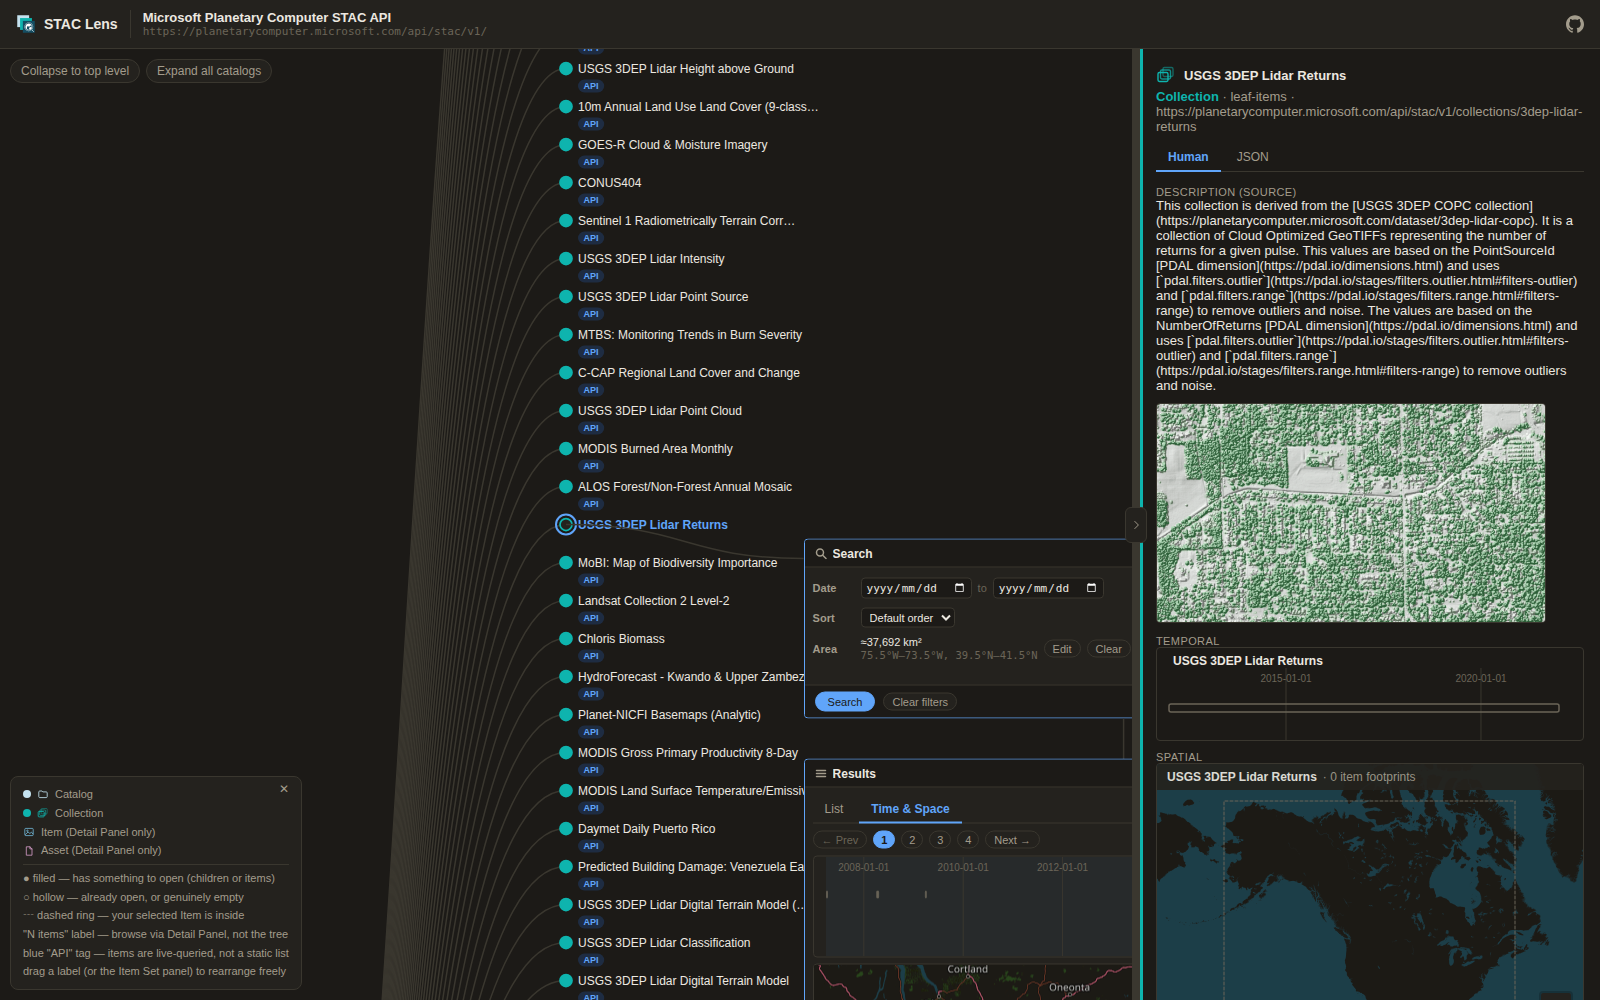
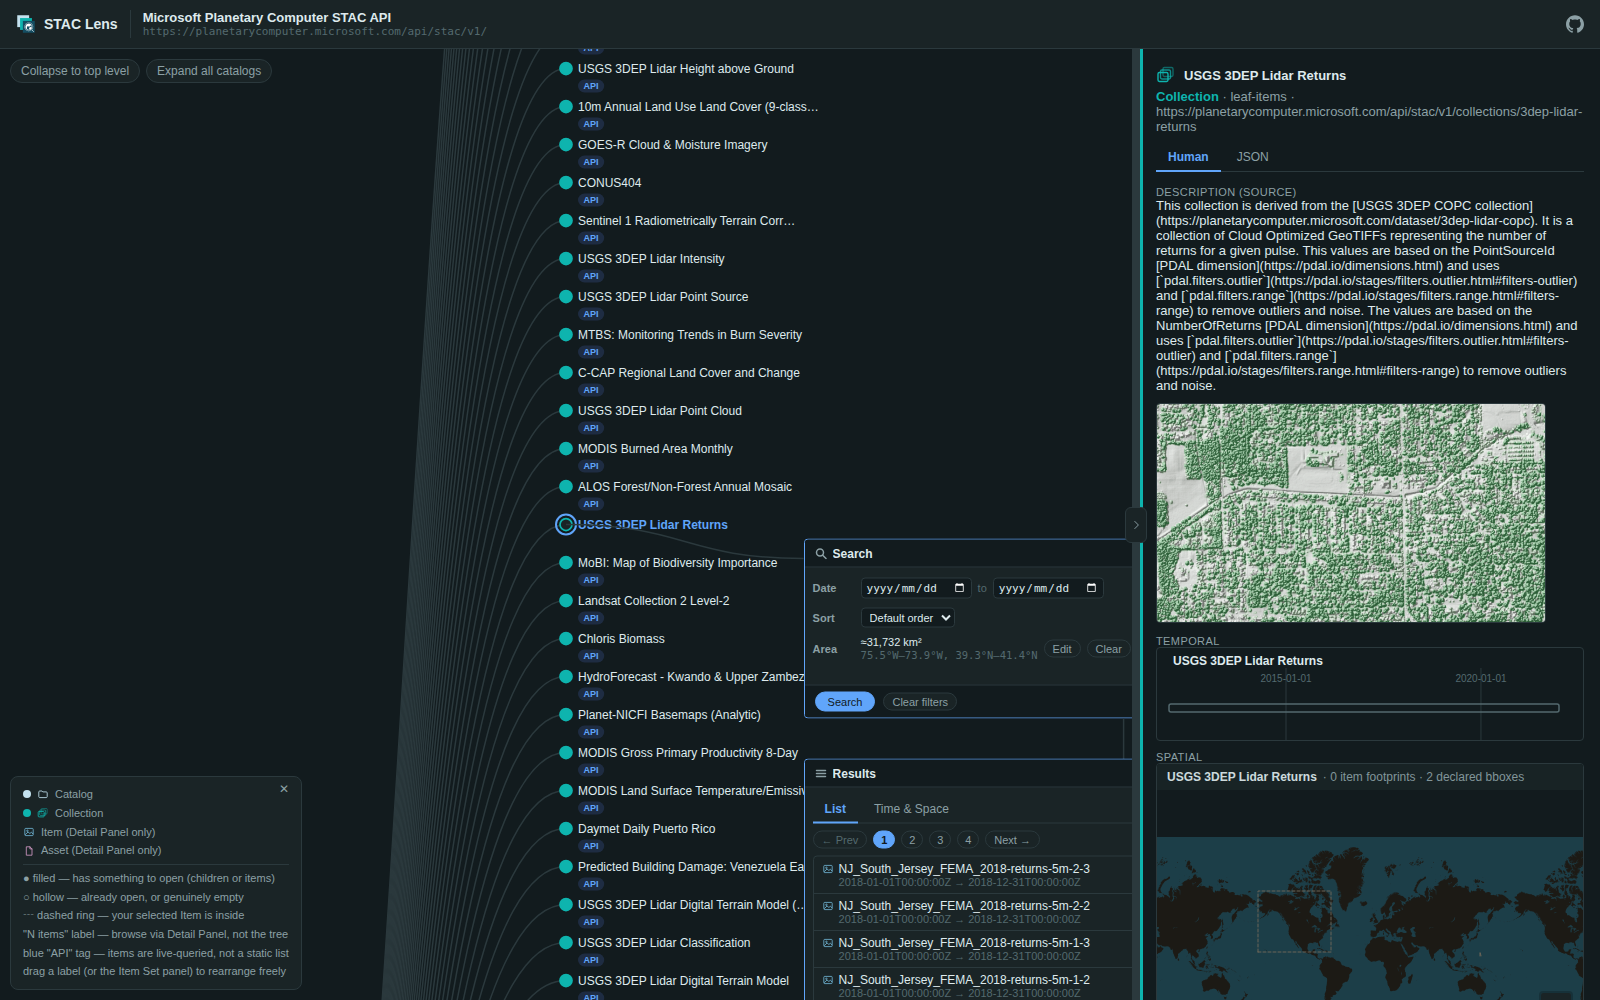
Docs: refresh screenshots and README for the new landing page; invite feedback
New dark-theme screenshots of the faceted landing page and the explorer.
README gains a Feedback wanted section (try your catalog, propose list
entries, disagree freely) with an honest note on how the code was written
and verified; the STAC support table covers spatial extents; the layout
tree and scripts list catch up with src/data, useStickySidebar,
landingPrefs and verify:catalogs. ARCHITECTURE describes the current
landing page; CONTRIBUTING lists the catalog verifier; DESIGN's deferred
list records the landing follow-ups and the two flagged catalogs.

Changed region(s): [[0.7188, 0.775, 1.0, 1.0], [0.5, 0.837, 0.6875, 1.0], [0.5, 0.806, 0.5938, 0.837]]

diff --git a/README.md b/README.md
@@ -66,7 +66,7 @@ Both share a **List / Time & Space** switcher: the same page of Items as a scrol
 **Landing page** — one large field, two jobs: type a name, topic or place to filter the list live, or paste any STAC Catalog, Collection or API URL and open it. Below it, a faceted browser over 100+ verified public catalogs and APIs — sidebar facets (topic, region, publisher, static/API) over an editorial tag vocabulary of our own, since neither STAC nor STAC Index classifies catalogs — with each card carrying its tags; favorites and recently opened catalogs are remembered in your browser.
 
 <p align="center">
-  <img src="docs/images/screenshot-landing.png" alt="The landing page: one search field over a grid of 100+ verified public STAC catalogs and APIs" width="1000">
+  <img src="docs/images/screenshot-landing.png" alt="The landing page: one field to search or paste a URL, a sidebar of facets, and cards for 100+ verified public STAC catalogs and APIs" width="1000">
 </p>
 
 ## STAC support
@@ -81,7 +81,8 @@ STAC Lens reads STAC 1.0 and 1.1 static catalogs and STAC APIs, and follows the 
 | STAC API - Item Search | `GET /search` scoped with `collections=`, `bbox`, `datetime`; Sort extension when declared |
 | Pagination | `next` links followed exactly as advertised — `href`, and the spec's `method` / `headers` / `body` / `merge` (POST-paginating servers included); `context` and `numberMatched` both understood, a total count never assumed |
 | Children extension | `rel:children` → `/children`, preferred over one fetch per `child` link when a server offers it |
-| STAC 1.1 | common `bands` / `data_type` (with `raster:bands` fallback), Link `method`/`body`, deprecated `license` values and the two-bbox rule flagged in the Inspector |
+| STAC 1.1 | common `bands` / `data_type` (with `raster:bands` fallback), Link `method`/`body`, deprecated `license` values flagged in the Inspector |
+| Spatial extents | every declared `extent.spatial.bbox` drawn (not only the first); the spec's overall-extent rule checked and its two-bbox case flagged; malformed bboxes dropped |
 | Real-world behavior | verified against live servers — Earth Search, Microsoft Planetary Computer, Copernicus Data Space, NASA CMR and others — and worked around only where a server contradicts the spec (documented in `docs/DESIGN.md`) |
 
 Not yet: CQL2 filtering and free-text search, arbitrary-field sort, `overview`/`visual` asset rendering, authenticated APIs, and in-browser COG display. The current list is kept in the last section of `docs/DESIGN.md`.
@@ -106,6 +107,7 @@ npm run lint             # oxlint
 npm test                 # unit tests for the data layer
 npm run test:e2e         # offline browser smoke test (recorded responses, no live servers)
 npm run verify:fixtures  # headless data-layer check against two reference catalogs
+npm run verify:catalogs  # re-check every landing-page catalog against its live server (docs/CATALOGS.md)
 ```
 
 Requires Node 20.19+ or 22.12+ (Vite 8's own range).
@@ -132,11 +134,11 @@ src/
   stac/            framework-agnostic data layer
     types.ts         StacNode, TemporalShape, node-shape classification
     graph.ts         raw STAC JSON -> StacNode, link resolution/dedup; reads STAC 1.1 bands/data_type
-                     as well as 1.0 raster:bands, keeps a Collection's declared bbox count
+                     as well as 1.0 raster:bands, keeps every declared Collection bbox
     loader.ts        href-keyed cache + in-flight dedup, lazy child/item fetch
     loaderInstance.ts shared StacLoader singleton
     temporal.ts      instant/interval normalization, temporal bounds for layout
-    spatial.ts       bbox/geometry normalization, defensive invalid-geometry fallback
+    spatial.ts       bbox/geometry normalization, bbox validation and containment (overall-extent rule)
     namespaces.ts    known-extension-prefix registry, per-scope namespace scanning
     describe.ts      plain-text temporal rendering, approximate-area / hemisphere-labeled bbox text
     extensionFacts.ts standard-extension + Common Metadata human-readable interpreters
@@ -147,6 +149,11 @@ src/
     conformance.ts   a node's governing API root's conformsTo (sort gating); resolveSearchTarget()
                      picks the root's GET /search?collections=<id> over the Collection's rel:items
     searchQueryUrl.ts encode/decode an applied search into the URL hash's ?query suffix
+  data/
+    catalogs.json    the landing page's known-catalog list — data with rules (docs/CATALOGS.md)
+    knownCatalogs.ts typed accessor for it
+    catalogTags.ts   closed facet vocabularies: topic, region, publisher, access
+    catalogFilters.ts pure text/facet filtering and faceted counts
   hooks/
     useStructureTree.ts        lazy expand/collapse state -> tree datum for d3
     useSelectedItems.ts        current selection -> what Inspector's Temporal/Spatial widgets plot
@@ -157,11 +164,13 @@ src/
     useElementSize.ts          ResizeObserver -> real container size
     useShareableUrl.ts         URL hash <-> catalog / selection / applied search, both directions
     useBoxDragHandles.ts       d3-drag wiring for an Item Set box's move and resize handles
+    useStickySidebar.ts        a sidebar that stays in view with one page scroll, no nested scrolling
   store/
     selection.ts     the shared selection (selected vs. browsed node)
     itemSet.ts       what Item Set has loaded/visible and its applied query
+    landingPrefs.ts  favorites and recently opened catalogs, persisted per browser
   components/
-    LandingPage.tsx          URL input + verified catalog grid
+    LandingPage.tsx          hero field (search or open a URL) + faceted catalog browser
     StructureTree.tsx        Structure Lens canvas: d3 layout, pan/zoom, node/box offsets, auto-pan
     tree/                    the tree's parts: TreeNodeView, ItemSetBox (renderBox), NodeTooltip,
                              Legend, boxGeometry (sizes, makeBoxGeometry), treeGeometry (spacing, links)
@@ -180,11 +189,23 @@ src/
     tokens.css       color/spacing/type tokens, light + dark
 scripts/
   verify-fixtures.ts headless data-layer verification (no UI)
+  verify-catalogs.ts live re-verification of the known-catalog list; reports, never edits
 tests/
   smoke.mjs          offline browser smoke test; fixtures/pc holds the recorded responses
+                     (unit tests live next to their code: src/stac/__tests__, src/data/__tests__)
 docker/
   nginx.conf         the container's nginx site config (same headers as netlify.toml)
 ```
+
+## Feedback wanted
+
+This is an early, deliberately small project — a visualization over other people's catalogs, not a platform — and it is shaped by what people actually want to see. If any of the following applies, please [open an issue](https://github.com/rednotfound/stac-lens/issues):
+
+- **You have a catalog or API you want to look at.** Paste its URL into the landing page; if it fails, renders oddly, or shows something you believe is wrong, tell us the URL and what you expected. Server quirks are the most valuable reports we get — several documented behaviors in [`docs/DESIGN.md`](docs/DESIGN.md) started that way.
+- **You want a catalog added to the landing list**, or think one is mis-tagged. The list and its tags are data with written rules ([`docs/CATALOGS.md`](docs/CATALOGS.md)); a one-line issue or a pull request against `src/data/catalogs.json` is enough.
+- **You have an idea, a request, or a disagreement** — about what "health" should mean, what the tree should show, or anything else. Half-formed is fine.
+
+A word on the code: it was written largely with an AI coding assistant, directed and reviewed by a designer, and verified by driving the app in a real browser against real catalogs rather than by reading every line. It works, it is tested, and it will still contain mistakes we have not found. If something looks wrong, it probably is — say so.
 
 ## Contributing
 

diff --git a/docs/ARCHITECTURE.md b/docs/ARCHITECTURE.md
@@ -68,7 +68,7 @@ Two zustand stores, deliberately small:
 
 **`App.tsx`** composes everything: the landing page until a root is chosen; then a header (mark, catalog title, source link), `StructureTree` on the left, `DetailPanel` on the right, and a draggable divider between them (drag to resize, snap to collapse, double-click to toggle). It also owns the URL wiring: computes the query string for the current selection and hands restored queries to the store.
 
-**`LandingPage.tsx`** — one field that opens a pasted URL or filters the verified catalog list (each entry was checked for CORS and real STAC content when added); footer via `ProjectLinks.tsx`.
+**`LandingPage.tsx`** — the entrance. One field with two jobs (typing filters the catalog list live, a pasted URL arms Open); below it a faceted catalog browser: a sidebar of collapsible facet groups with counts (`data/catalogTags.ts`, `data/catalogFilters.ts`), a "Yours" view switch for favorites and recently opened roots (`store/landingPrefs.ts`), and cards that carry their own clickable tags. The sidebar stays in view through `hooks/useStickySidebar.ts` — native `position: sticky` whose offset is switched only on a scroll-direction change, so there is one page scroll and no nested scroll region. Footer via `ProjectLinks.tsx`.
 
 **`StructureTree.tsx`** — Structure Lens. d3-hierarchy lays out the tree; d3-zoom pans and zooms the canvas; d3-drag moves individual nodes and the boxes. The two gesture systems are composed with `zoom.filter()`: any element marked `data-block-pan` (a node's hit target, a box and everything inside it) is excluded from canvas panning, so a drag or a scroll inside a box never also moves the canvas. The file is the canvas only — layout, zoom/pan, node drag offsets, per-node box geometry state, auto-pan to a selection that is off-screen (leaving room for its box), and the `boxLayer`: a last-rendered `<g>` that every open box is portaled into so it always paints above other nodes. Everything else lives in `src/components/tree/`:
 
@@ -120,7 +120,7 @@ These are the rules the code is organized around. A change that breaks one is a 
 
 - Type-check with `npx tsc -b` (the root `tsconfig.json` is a references-only shell — `tsc -p .` checks nothing). `npm run build` runs the same check and then Vite.
 - `npm run lint` — oxlint, kept at zero findings; `npm run format:check` — Prettier over code and config.
-- `npm test` — Vitest over the pure data layer (`src/stac/__tests__/`): every spec rule and server behavior the data layer encodes has a case there.
+- `npm test` — Vitest over the pure data layer (`src/stac/__tests__/`) and the catalog-list data (`src/data/__tests__/`: vocabulary integrity, filter semantics): every spec rule and server behavior the data layer encodes has a case there.
 - `npm run test:e2e` — `tests/smoke.mjs`, an offline Playwright run against the app with every external request answered from `tests/fixtures/` (recorded real responses) or refused; CI runs it against the production build.
 - `npm run verify:fixtures` — headless data-layer checks against two live reference catalogs.
 - Anything else UI — Playwright against the dev server, driving real public catalogs at real data density; `page.route` with recorded responses where a behavior can't be triggered live.

diff --git a/docs/DESIGN.md b/docs/DESIGN.md
@@ -5484,6 +5484,18 @@ server omits — both loosened to match what matters, not the accident.
   "Collapse to top level" button deliberately never folds the root). The
   parked branch made the root select-only because selecting it is how
   its boxes would open. Undecided; not changed during the refactor.
+- **Landing page follow-ups (§100–§101).** Filter and view state are not
+  in the URL yet (a shared "disaster imagery over South America" link
+  would need a landing-page query string cleared when a catalog opens).
+  Whether `--color-selection`'s blue should move onto the brand teal, now
+  that `--color-brand` exists, is undecided — "blue = interaction with
+  the selection" is a working language and the change is app-wide.
+  Favorites for Collections and Items were declined for now; the store's
+  shape (`href` + `title`) would take them without change.
+- **Two known-catalog entries currently fail in a browser (§99):** USGS
+  Landsat Collection 2 (CORS header echoes its own origin) and UK NCEO
+  ARD (duplicated `*, *` header). Kept and flagged in `docs/CATALOGS.md`
+  pending the weekly re-checks; removal is a decision, not an automation.
 - **Decided against, not deferred: inventing a grouping layer over a
   flat API root.** Copernicus Data Space lists 422 Collections with no
   `child` Catalogs at all (220 CLMS products split by variable ×

diff --git a/CONTRIBUTING.md b/CONTRIBUTING.md
@@ -30,6 +30,7 @@ npm run format           # prettier --write (format:check is what CI runs)
 npm test                 # vitest — unit tests for the data layer (src/stac/__tests__)
 npm run test:e2e         # offline Playwright smoke suite against a running app (tests/smoke.mjs)
 npm run verify:fixtures  # headless data-layer checks against two reference catalogs
+npm run verify:catalogs  # live re-check of the landing-page catalog list (docs/CATALOGS.md); reports, never edits
 ```
 
 CI runs `format:check`, `lint`, `test`, `build`, and then `test:e2e` against the production build.
